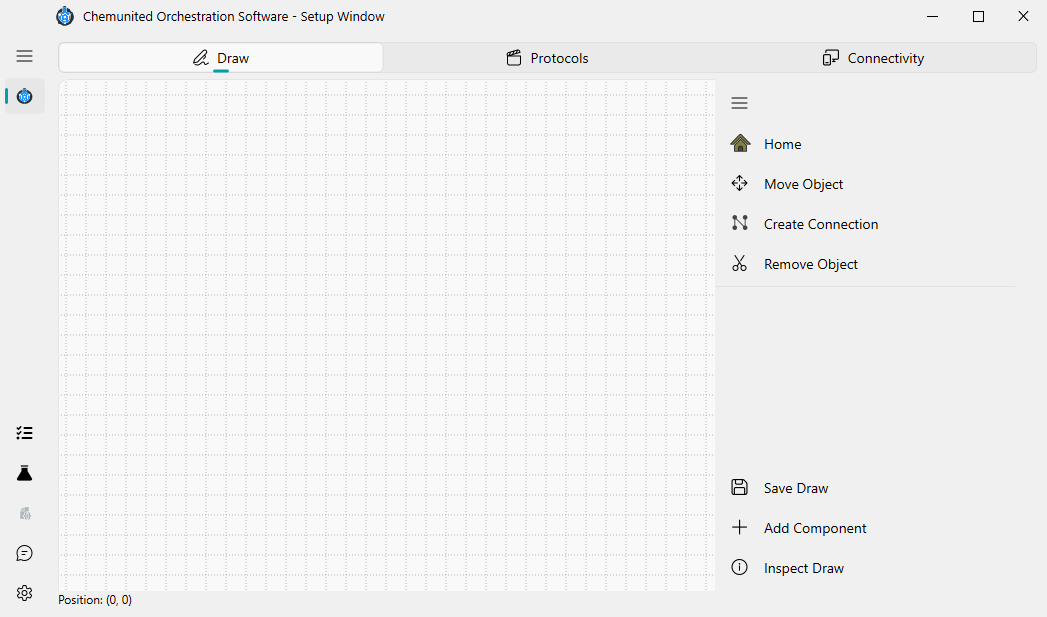
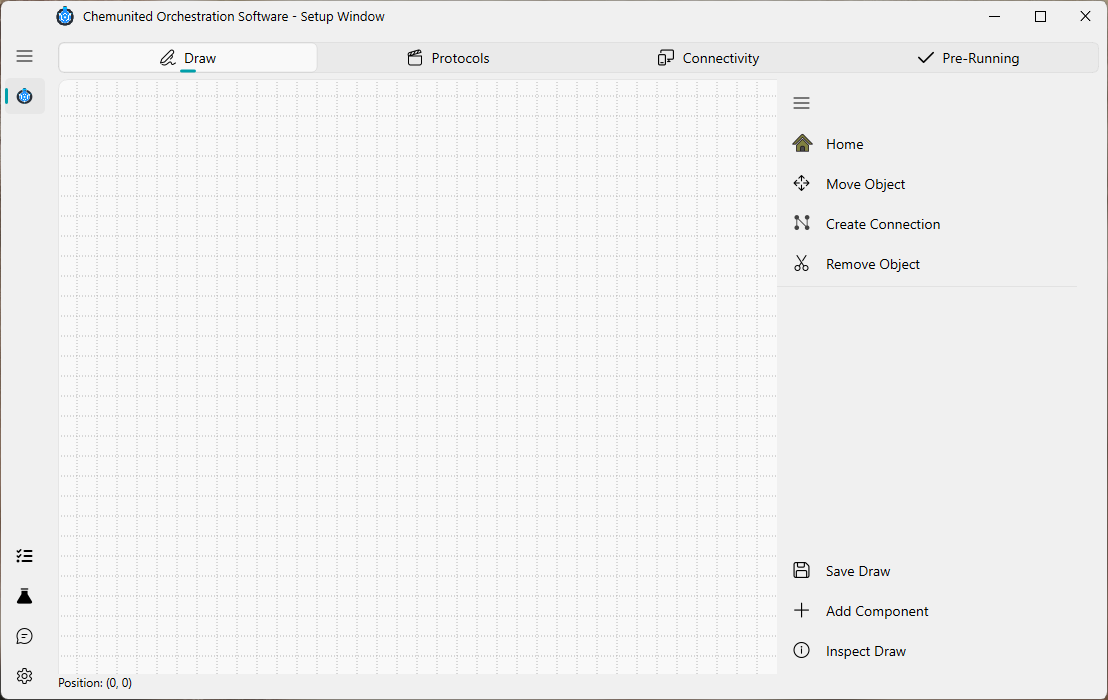
pre-running documentation

diff --git a/docs/protocols/pre_running.md b/docs/protocols/pre_running.md
@@ -1,0 +1,137 @@
+# 🧩 Pre-Running
+
+The Pre-Running step is responsible for building, saving, and launching the protocols to be executed.
+A protocol is defined as a sequential list of processes that will be executed one after another.
+
+Below is the window corresponding to the Pre-Running step.
+
+![Alt text](../_static/pre_running01.png)
+
+---
+
+## 🧩 Process Availability
+
+The Pre-Running window contains two lists of processes:
+
+1. **Processes Available**
+
+These processes are defined and stored in the protocol but are **not currently scheduled for execution.**
+This list is essentially a mirror of the processes defined in the **Protocols frame.**
+
+2. **Processes Active**
+
+These processes are enabled and will be executed in **simulation** or **monitoring** mode.
+
+This separation allows the user to:
+
+* Define multiple processes
+
+* Choose which processes will be executed
+
+* Define the execution order
+
+* Repeat the same process multiple times if needed
+
+In the example above:
+
+* The Available list contains four independent processes
+
+* The Active list contains three entries, where `process01` appears twice
+
+The resulting execution sequence will be:
+    
+`process01` → `process02` → `process01`
+    
+This flexibility in arranging the Active list (and repeating individual processes) allows the user to customize
+different execution scenarios according to their needs.
+
+---
+
+## 🛠 **Options in the processes lists**
+
+Each item in the list has a context menu 
+(accessed via <img src="../_static/icons/Application_black.svg" width="16" style="vertical-align:middle; margin-right:4px;">) 
+with the following options.
+
+   **For items in the Available list:**
+
+   - ➡ **send**: Move the item to the Active list.  
+
+   **For items in the Active list:**
+
+   - 📚 **duplicate**: Create a copy of the item. 
+   - <img src="../_static/icons/python.svg" width="16" style="vertical-align:middle; margin-right:4px;"> **parameter**: Access the process parameter window.  
+   - <img src="../_static/icons/trash_black.svg" width="16" style="vertical-align:middle; margin-right:4px;"> **remove**: Remove the item from the Active list.
+
+<div class="info-block">
+  <strong>💡 Note</strong><br>
+  When a process appears multiple times in the <em>Active</em> list, all instances share the same
+  <strong>parameter definition</strong>, but each instance maintains its
+  <strong>own independent parameter values</strong>.
+
+  <br><br>
+  For example, if <code>process01</code> defines a parameter <code>x</code>:
+  <ul>
+    <li>The first <code>process01</code> in the Active list may run with <code>x = 1</code></li>
+    <li>The second <code>process01</code> may run with <code>x = 3</code></li>
+  </ul>
+
+  Changing the parameter values of one process instance does <strong>not</strong> affect the others.
+  This allows the same process to be reused multiple times within a protocol, each time with
+  different runtime settings.
+</div>
+
+---
+
+## ▶ Pre-Running Actions
+
+On the bottom-left side of the Pre-Running window, four main action buttons are available:
+
+* <img src="../_static/icons/variable_black.svg" width="16" style="vertical-align:middle; margin-right:4px;"> **Main Parameters** 
+
+Access and adjust the global parameters of the project for the current protocol.
+
+* <img src="../_static/icons/chemunited.svg" width="16" style="vertical-align:middle; margin-right:4px;"> **Run Monitoring** 
+
+Launch the monitoring application to execute the protocol.
+This requires that all electronic components are already connected and online in the **Connectivity** window.
+
+* <img src="../_static/icons/chemunited_simu.svg" width="16" style="vertical-align:middle; margin-right:4px;"> **Run Simulation**
+
+Execute the protocol in simulation mode using a **digital twin** version of the platform.
+
+* <img src="../_static/icons/Save_black.svg" width="16" style="vertical-align:middle; margin-right:4px;"> **Save Protocol Script**  
+
+Save the protocol — including all configured parameters — as a `protocol script file`.
+The file is stored in JSON format and contains all information required to execute the protocol.
+
+---
+
+## 📁 Protocol Files
+
+On the right side of the window, the **Protocol Files cards** are displayed.
+All previously saved protocols appear here, allowing users to quickly inspect or relaunch them.
+
+![Alt text](../_static/pre_running02.png)
+
+Each protocol card provides the following actions:
+
+* <img src="../_static/icons/open_folder_black.svg" width="16" style="vertical-align:middle; margin-right:4px;"> **Open local file**
+
+Open the local folder containing the protocol script.
+
+* <img src="../_static/icons/json.svg" width="16" style="vertical-align:middle; margin-right:4px;"> **Summary**
+
+Open a read-only window displaying a summary of all predefined parameters.
+
+* <img src="../_static/icons/chemunited.svg" width="16" style="vertical-align:middle; margin-right:4px;"> **Run Monitoring** 
+
+Execute the protocol directly in monitoring mode.
+
+* <img src="../_static/icons/chemunited_simu.svg" width="16" style="vertical-align:middle; margin-right:4px;"> **Run Simulation**
+
+Execute the protocol in simulation mode.
+
+* <img src="../_static/icons/trash_black.svg" width="16" style="vertical-align:middle; margin-right:4px;"> **Delete the protocol script**
+
+Permanently remove the protocol file.

diff --git a/docs/protocols/build_protocols.md b/docs/protocols/build_protocols.md
@@ -62,30 +62,6 @@ When building protocols, each process can have one of two statuses:
 
 The process is defined and stored in the protocol, but **not** currently scheduled for execution.
 
-2. **Active**
-
-The process is enabled and will be executed in simulation/monitoring mode.
-
-These statuses allow the user to define multiple processes and then decide **which ones** will run and **in which order**.  
-The user can also repeat the same process multiple times by adding it more than once to the *Active* list.
-
-<p>
-  <img src="../_static/process_status.png"
-       style="float:left; width:20%; margin-left:2rem; margin-right:4rem; margin-bottom:2rem;">
-
-In the example, we have four independent processes in the **Available** list, while the **Active** list contains 
-three entries, where `process01` appears twice. 
-In this case, the execution sequence will be:
-    
-`process01` → `process02` → `process01`
-    
-This flexibility in arranging the Active list (and repeating individual processes) allows the user to customize
-different execution scenarios according to their needs.
-
-.
-
-</p>
-
 ## ChemUnited Protocols Panel
 
 The main protocols panel is shown below.
@@ -104,24 +80,18 @@ inspecting the physical setup so the user can write commands correctly.
 In this area the process workflow is built by adding new modules/blocks and connecting them. 
 The details of how to build and edit workflows are explained in the [next section](module_workflows.md).
 
-3. **Available and Active process lists**
+3. **Available process lists**
 
-On the right side you will find two lists: **Available** and **Active** processes.
+On the right side you will find two lists: **Available** processes.
 Each item in the list has a context menu 
 (accessed via <img src="../_static/icons/Application_black.svg" width="16" style="vertical-align:middle; margin-right:4px;">) with the following options.
 
 **For items in the Available list:**
-
-   - ➡ **send**: Move the item to the Active list.  
+ 
    - ✏ **edit**: Rename the item.  
    - <img src="../_static/icons/python.svg" width="16" style="vertical-align:middle; margin-right:4px;"> **parameter**: Open the process parameter settings.  
    - 📚 **duplicate**: Create a copy of the item.  
    - <img src="../_static/icons/trash_black.svg" width="16" style="vertical-align:middle; margin-right:4px;"> **remove**: Delete the item.
-
-   **For items in the Active list:**
-
-   - 📚 **duplicate**: Create a copy of the item.  
-   - <img src="../_static/icons/trash_black.svg" width="16" style="vertical-align:middle; margin-right:4px;"> **remove**: Remove the item from the Active list.
 
 ---
 

diff --git a/docs/protocols/parameters.md b/docs/protocols/parameters.md
@@ -123,7 +123,8 @@ active: bool = Field(
 
 ## How parameters appear to the user
 
-After defining these parameters, the platform automatically generates the configuration window where the user can view and edit them (depending on the Behavior settings):
+After defining these parameters, the platform automatically generates the parameters list 
+where the user can inspect if it is corrected build.
 
 ![Alt text](../_static/parameters_window_view.png)
 

diff --git a/docs/index.md b/docs/index.md
@@ -58,6 +58,7 @@ protocols/build_protocols.md
 protocols/module_workflows.md
 protocols/script_editor.md
 protocols/parameters.md
+protocols/pre_running.md
 protocols/tutorial.md
 ```
 
